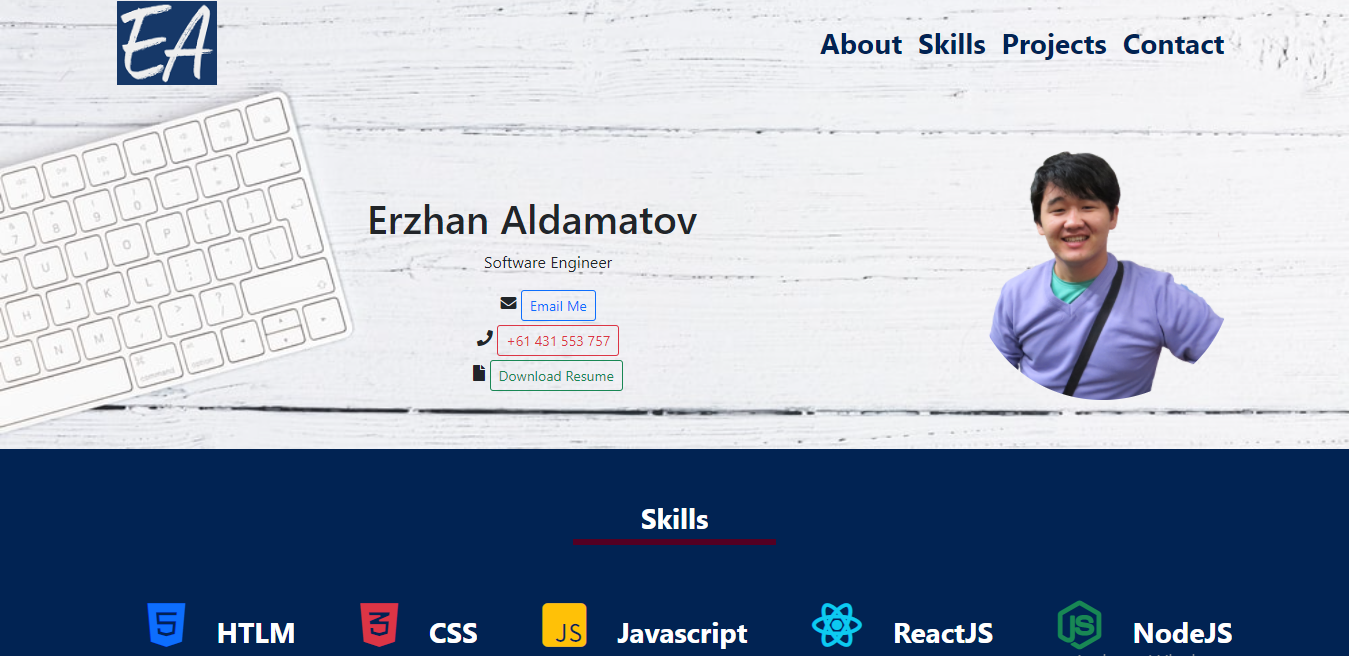
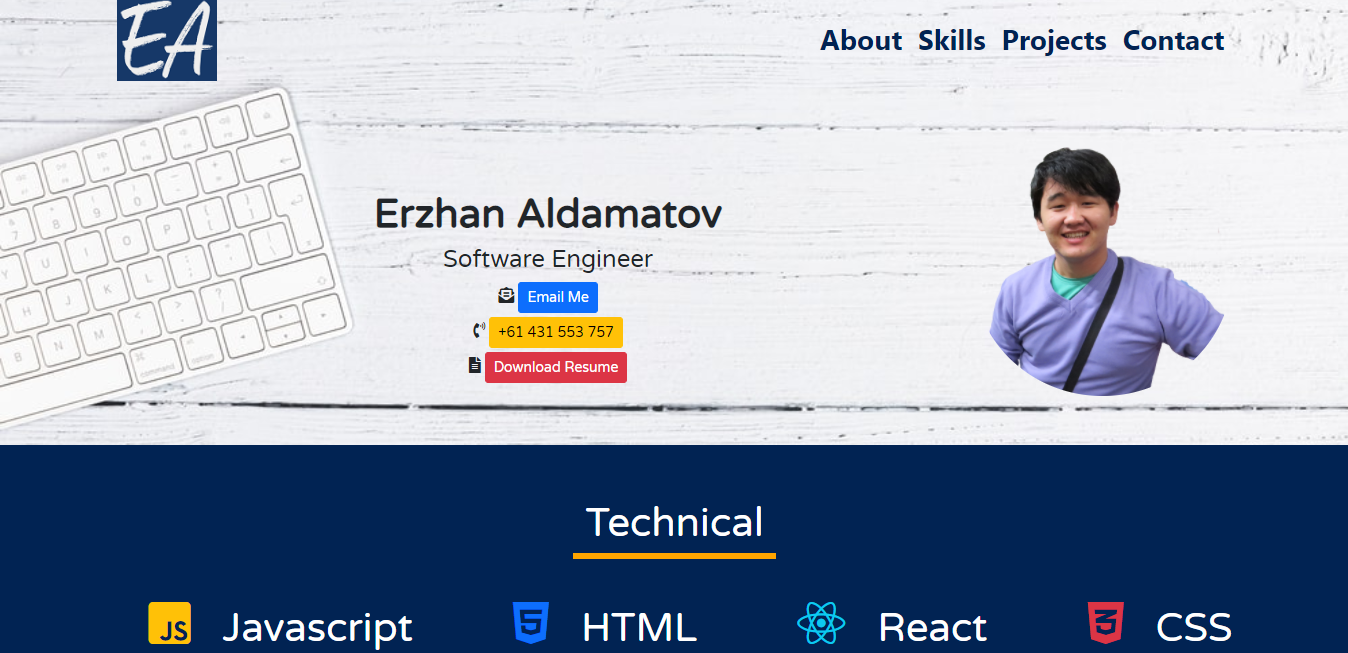
Added new functions and changed the design

diff --git a/src/components/section/projects/Projects.js b/src/components/section/projects/Projects.js
@@ -9,31 +9,12 @@ export const Projects = () => {
         <div id= "projects" className="py-5 ">
             <SectionTitle title="Projects"/>
             <Container>
-                <Row className="mt-5 outline-dark"> 
-                    <Col md="6"><img src={toDoList} width="100%" alt="not to do task list"/></Col>
-                    <Col md="6"><div class="fs-2 fw-bold ">
-								Not To Do Task Lists -{" "}
-								<a href="https://google.com" target="_blank" rel="noreferrer"><i class="fab fa-github"></i></a> {" "}
-								<a href="https://google.com" target="_blank" rel="noreferrer"><i class="fab fa-chrome"></i></a>
-							</div>
-							<div class="fst-italic fw-bold">Tech: HTML, CSS, Javascript</div>
-							<p class="mt-3">
-								<strong>About:</strong> Lorem ipsum dolor sit amet consectetur
-								adipisicing elit. Ratione nesciunt quod itaque molestiae! Earum
-								accusantium accusamus, libero corporis sed veniam!
-							</p>
-							<p>Lorem ipsum dolor sit amet consectetur adipisicing elit.</p></Col>
-
-                </Row>
+                
                 <Row className="mt-5">
-                <Col md ="6" className="order-2"><img
-								src= {profImg}
-								width="100%"
-								alt="Profile Project"
-							/></Col>
-                    <Col md="6" className="order-1"><div class="fs-2 fw-bold ">
+                <Col md ="6" className="order-1"><a href="aldamatov.com"><img src= {profImg} width="100%" alt="Profile Project" /></a></Col>
+                    <Col md="6" className="order-2"><div class="fs-2 fw-bold ">
 								My Portfolio website -{" "}
-								<a href="https://github.com/aldamatov/Erzhan-Profile-in-React.git" rel="noreferrer" target="_blank"><i class="fab fa-github"></i></a> {" "}
+								<a href="https://github.com/aldamatov/Erzhan-Profile-in-React.git" rel="noreferrer" target="_blank"><i class="fab fa-github-alt"></i></a> {" "}
 								<a href="https://aldamatov.com" rel="noreferrer"  target="_blank"><i class="fab fa-chrome"></i></a>
 							</div>
 							<div class="fst-italic fw-bold">Tech: HTML, CSS, Javascript</div>
@@ -44,13 +25,26 @@ export const Projects = () => {
 								accusantium accusamus, libero corporis sed veniam!
 							</p></Col>
                 </Row>
-           
-           
+				<Row className="mt-5"> 
+                    <Col md ="6" className="order-2"><img src={toDoList} width="100%" alt="not to do task list"/></Col>
+                    <Col md="6" className="order-1"><div class="fs-2 fw-bold ">
+								Not To Do Task Lists -{" "}
+								<a href="https://google.com" target="_blank" rel="noreferrer"><i class="fab fa-github-alt"></i></a> {" "}
+								<a href="https://google.com" target="_blank" rel="noreferrer"><i class="fab fa-chrome"></i></a>
+							</div>
+							<div class="fst-italic fw-bold">Tech: HTML, CSS, Javascript</div>
+							<p class="mt-3">
+								<strong>About:</strong> Lorem ipsum dolor sit amet consectetur
+								adipisicing elit. Ratione nesciunt quod itaque molestiae! Earum
+								accusantium accusamus, libero corporis sed veniam!
+							</p></Col>
+
+                </Row>
            <Row className="mt-5">
-               <Col><img src={prankCalc} width="90%" alt="prank calculator" /></Col>
-               <Col><div class="fs-2 fw-bold">
+               <Col  md ="6" className="order-1"><a href="https://prank-calculator.vercel.app/"><img src={prankCalc} width="100%" alt="prank calculator" /></a></Col>
+               <Col md="6" className="order-2"><div class="fs-2 fw-bold">
 								Prank Calculator 🤣 -{" "}
-								<a href="https://github.com/aldamatov/Calculator.git" target="_blank" rel="noreferrer"><i class="fab fa-github"></i></a>{" "}
+								<a href="https://github.com/aldamatov/Calculator.git" target="_blank" rel="noreferrer"><i class="fab fa-github-alt"></i></a>{" "}
 								<a href="https://prank-calculator.vercel.app" target="_blank" rel="noreferrer"><i class="fab fa-chrome"></i></a>
 							</div>
 							<div class="fst-italic fw-bold">Tech: HTML, CSS, Javascript</div>

diff --git a/src/components/section/skills/Skills.js b/src/components/section/skills/Skills.js
@@ -1,19 +1,20 @@
 import React from 'react'
 import { Container, Row, Col } from 'react-bootstrap'
 import { SectionTitle } from '../../section-title/SectionTitle'
+import './skills.style.css'
 
 export const Skills = () => {
     return (
         <div id="skills" className="py-5 ">
-            <SectionTitle title ="Technical"/>
+            <SectionTitle  title ="Technical"/>
             <Container>
                 <Row>
                     <Col>
-                    <div id="logo3" class="fc-white skills-list fs-2  d-flex justify-content-between flex-wrap mt-1">
+                    <div id="logo3" className="fc-white skills-list fs-1  d-flex justify-content-between flex-wrap mt-2">
             
             <div><i class="fab fa-js-square text-warning"></i>Javascript</div>
             <div><i class="fab fa-html5 text-primary"></i>HTML</div>
-            <div><i class="fab fa-react text-info"></i>ReactJS</div>
+            <div><i class="fab fa-react text-info"></i>React</div>
             <div><i class="fab fa-css3-alt text-danger"></i>CSS</div>
             <div><i class="fab fa-node-js text-success"></i>NodeJS</div>
             <div><i class="fas fa-database text-success"></i>MongoDB</div>

diff --git a/src/components/hero/Hero.js b/src/components/hero/Hero.js
@@ -17,10 +17,11 @@ export const Hero = () => {
                 <Row className="mt-5 ">
                     <Col md="9">
                  <div className="order-md-1 text-lg-center mt-5 justify-content-md-center "> 
-                 <h1 className="fw-bold">Erzhan Aldamatov</h1>
                 
                  <ul className="contact">
-                     <li><p id="software">Software Engineer</p> </li>
+                     <li> <h1 id="era" className="fw-bold fs-large">Erzhan Aldamatov</h1>
+                </li>
+                     <li><h4 id="software">Software Engineer</h4> </li>
                      <li className="mb-1 " >
                          <i className="fa fa-envelope-open-text"></i> {" "}
                          <Button href="mailto:" variant="primary" size= "sm">Email Me</Button>

diff --git a/src/components/hero/hero.style.css b/src/components/hero/hero.style.css
@@ -1,3 +1,5 @@
+@import url("https://fonts.googleapis.com/css2?family=Varela+Round&display=swap");
+
 .hero {
   min-height: 60vh;
   background: url(../../assets/img/Bg1.jpg);
@@ -8,4 +10,12 @@
 ul {
   list-style-type: none;
   margin-top: 0%;
+  font-family: "Varela Round", sans-serif;
+}
+#era {
+  font-family: "Varela Round", sans-serif;
+}
+
+#software {
+  font-family: "Varela Round", sans-serif;
 }

diff --git a/src/App.js b/src/App.js
@@ -5,7 +5,7 @@ import { About } from "./components/section/about-me/About"
 import { Projects } from "./components/section/projects/Projects"
 import { Skills } from "./components/section/skills/Skills"
 import {Contact } from '../src/components/contact/Contact'
-import { TopNavBar } from "./components/top-nav-bar/TopNavBar"
+
 
 
 function App() {

diff --git a/src/App.css b/src/App.css
@@ -1,3 +1,4 @@
+@import url("https://fonts.googleapis.com/css2?family=Varela+Round&display=swap");
 /* Skills Sections */
 #skills {
   background: var(--main-color);
@@ -17,4 +18,7 @@
 
 #aboutMe {
   color: white;
+}
+#projects {
+  font-family: "Varela Round", sans-serif;
 }

diff --git a/src/components/section/skills/skills.style.css b/src/components/section/skills/skills.style.css
@@ -1,0 +1,5 @@
+@import url("https://fonts.googleapis.com/css2?family=Varela+Round&display=swap");
+
+#skills {
+  font-family: "Varela Round", sans-serif;
+}
